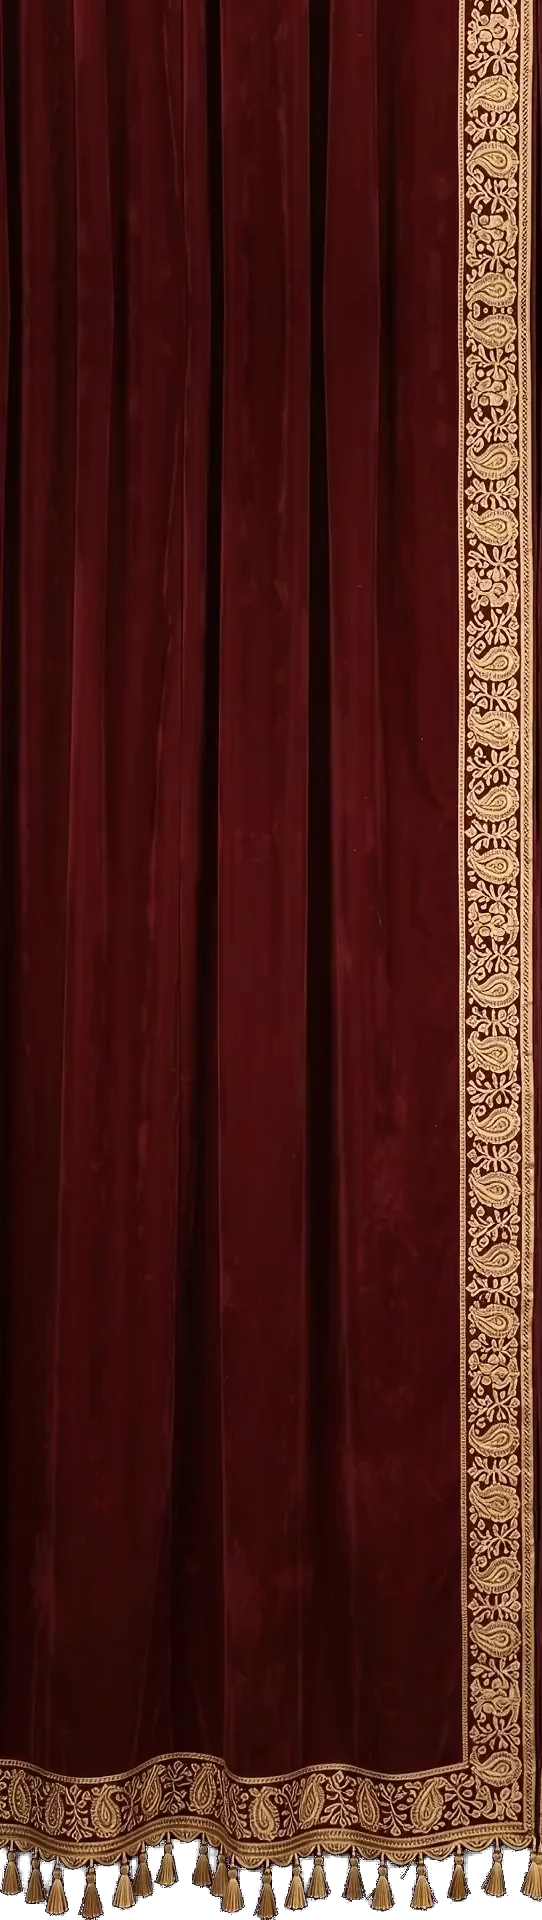
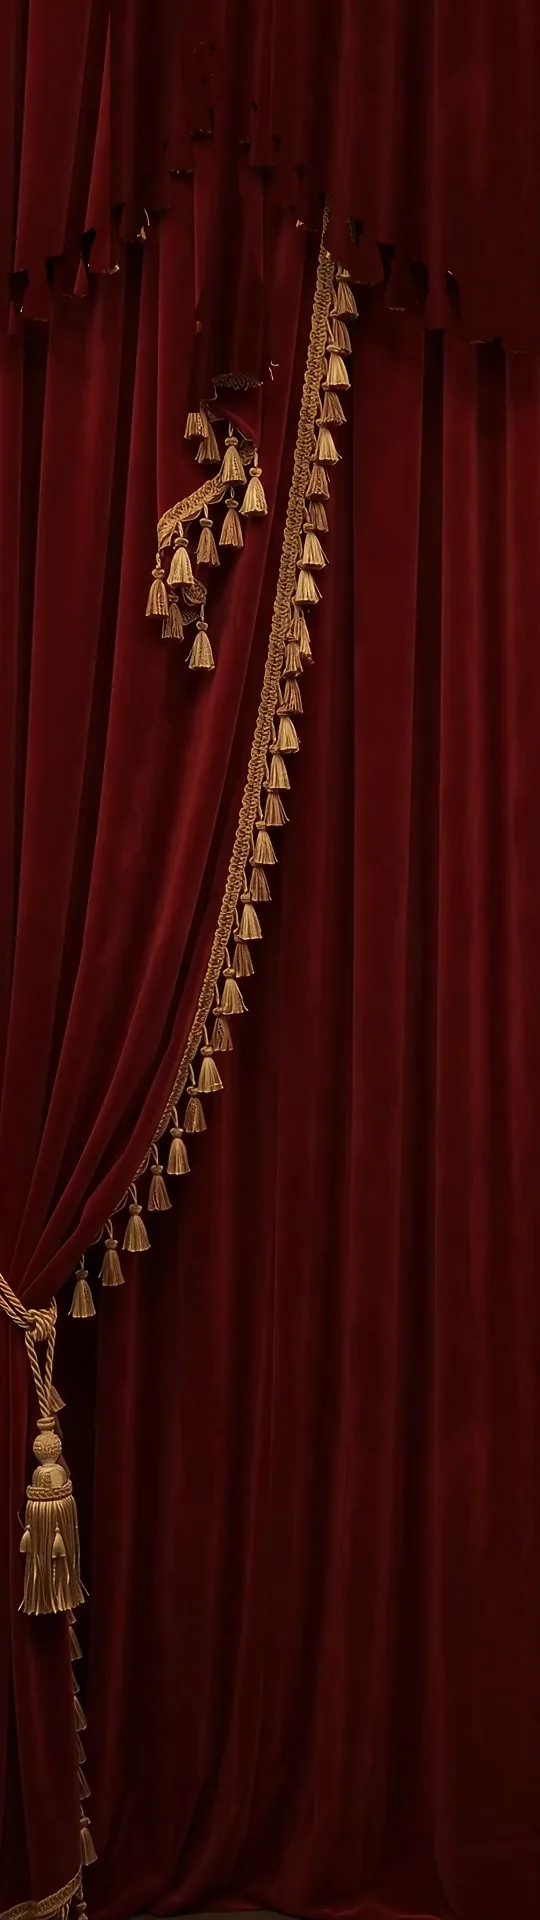
Curtain reveal: velvet panels and valance cut from the new video, one set for every card; remove the cream set

diff --git a/lib/curtainArt.ts b/lib/curtainArt.ts
@@ -1,42 +1,45 @@
 /**
- * The cloth the curtain cover is hung with: its panels and a valance, in
- * maroon velvet and in cream.
+ * The cloth the curtain cover is hung with: two panels of dark red velvet and
+ * the swagged valance over them, with their gold fringe.
  *
- * THE VELVET IS CUT FROM FILM. The cover used to play a film of velvet
- * curtains parting, and a film is opaque: the card could only be faded in
- * over its last frames, never seen between the curtains. So the film's first
- * frame, the curtains hanging closed, was cut into a left panel and a right
- * one down the seam between them, and the valance was cut from a later frame,
- * where the curtains are open and it hangs against black. The panels' tops,
- * which the valance hides in the film, are the cloth below turned over. The
- * cream set is the artwork cut by scripts/cut-flowers.mjs, as it was.
+ * CUT FROM FILM. The cover is a film of velvet curtains opening on a stage,
+ * and a film is opaque: the card could only ever be faded in over its last
+ * frames, never seen between the curtains. So the film's first frame, the
+ * curtains hanging closed, was cut into three: the valance, which is
+ * everything above its trim with its fringe and the two cords and tassels
+ * that hang from it, and what is left split down the middle into a left
+ * panel and a right. Where the valance was, each panel has plain velvet from
+ * lower down the same fold. The generator's mark in the corner is covered
+ * the same way.
  *
- * NOT TAKEN FROM THE CARD'S PALETTE, unlike every other cover. A photograph
- * of velvet cannot be mixed out of two hex colours, and a tint laid over one
- * turns gold thread to mud. So the cover answers to the card the only way a
- * photograph can: by which of the two it is. A light card is opened from
- * behind cream cloth and a dark one from behind maroon, so the screen does not
- * flash from one end of the scale to the other as the curtains part.
+ * ONE SET, FOR EVERY CARD, and not taken from the card's palette. The
+ * curtains cover the whole screen until they are tapped, so the card's colour
+ * is not on screen to match, and there is one film. The words over them are
+ * set in the cloth's inks, not the card's, and the cloth says it is dark
+ * (`tone`) so the shell seats them on a dark shadow whatever the card is.
  *
- * The cream set has one panel: its right curtain is the left one mirrored, in
- * the visual. The velvet has two, because the film's two curtains are not
- * each other's mirror, and its right one is published already turned, so the
- * visual's one mirrored markup draws it the right way round.
+ * Two panels, because the film's two curtains are not each other's mirror.
+ * The right one is published already turned, so the visual's one mirrored
+ * markup draws it the right way round.
  */
 
 import type { CoverArt } from "@/types/coverAnimation";
 
 export interface CurtainArt extends CoverArt {
-  /** The left curtain, its gold border on its right edge. */
+  /** The left curtain, its leading edge on its right. */
   panel: string;
-  /**
-   * The right curtain, for a set whose two are different cloth: published
-   * turned, border on its right edge like the left one's. Absent where the
-   * right is simply the left in a mirror.
-   */
-  panelRight?: string;
+  /** The right curtain, published turned: leading edge on its right, like the left one's. */
+  panelRight: string;
   /** The swagged valance across the top. */
   valance: string;
+  /**
+   * The valance's height as a share of the film frame's. The panels are
+   * scaled to the screen's height, and the valance has to be scaled with
+   * them or its fringe hangs short of where the film hung it.
+   */
+  valanceHeight: number;
+  /** The valance's own width over its height. */
+  valanceAspect: number;
   /** The shade where the two panels meet, and that each casts on the card as it leaves. */
   shadow: string;
 }
@@ -44,14 +47,16 @@ export interface CurtainArt extends CoverArt {
 const VELVET_LEFT = "/decor/curtain/velvet/curtain-left.webp";
 const VELVET_RIGHT = "/decor/curtain/velvet/curtain-right.webp";
 const VELVET_VALANCE = "/decor/curtain/velvet/valance.webp";
-const CREAM_PANEL = "/decor/curtain/curtain-left-cream.webp";
-const CREAM_VALANCE = "/decor/curtain/curtain-valance-cream.webp";
 
 const VELVET: CurtainArt = {
   panel: VELVET_LEFT,
   panelRight: VELVET_RIGHT,
   valance: VELVET_VALANCE,
+  /* 412 of the frame's 1920 rows, and 1080 wide. */
+  valanceHeight: 412 / 1920,
+  valanceAspect: 1080 / 412,
   images: [VELVET_LEFT, VELVET_RIGHT, VELVET_VALANCE],
+  tone: "dark",
   shadow: "rgba(0, 0, 0, 0.42)",
   ink: "#FBF4E6",
   inkMuted: "rgba(251, 244, 230, 0.86)",
@@ -60,23 +65,7 @@ const VELVET: CurtainArt = {
   plaqueInk: "#F1D38A",
 };
 
-/*
-  Gold on cream cloth is gold on gold, so the cream set's plaque is ivory and
-  its gold is taken down to an antique one that reads on it: 5.6:1.
-*/
-const CREAM: CurtainArt = {
-  panel: CREAM_PANEL,
-  valance: CREAM_VALANCE,
-  images: [CREAM_PANEL, CREAM_VALANCE],
-  shadow: "rgba(72, 48, 12, 0.3)",
-  ink: "#4A3410",
-  inkMuted: "rgba(74, 52, 16, 0.9)",
-  plaque: "rgba(255, 251, 240, 0.9)",
-  plaqueEdge: "#C2913A",
-  plaqueInk: "#80560F",
-};
-
-/** The cloth for a card whose ground is light, or dark. */
-export function curtainArt(isLight: boolean): CurtainArt {
-  return isLight ? CREAM : VELVET;
+/** The cloth, which is the same for every card. */
+export function curtainArt(): CurtainArt {
+  return VELVET;
 }

diff --git a/components/invite/covers/CurtainRevealCover.tsx b/components/invite/covers/CurtainRevealCover.tsx
@@ -54,11 +54,8 @@ const DRAW_EASE = "cubic-bezier(0.42,0,0.5,1)";
 /** How far the valance lifts as it goes, as a share of its own height. */
 const VALANCE_LIFT = "-45%";
 
-/**
- * Stops short of the hem's tassels, which hang in the bottom tenth with the
- * card showing between them: a shade drawn there would be a grey box.
- */
-const ABOVE_TASSELS = "linear-gradient(180deg, #000 0%, #000 82%, transparent 90%)";
+/** The shades run the whole height: this cloth reaches the floor, with no hem to stop short of. */
+const FULL_HEIGHT = "linear-gradient(180deg, #000, #000)";
 
 /**
  * Two curtains of velvet and zari drawn back off the invitation, under a
@@ -97,7 +94,7 @@ export default function CurtainRevealCover({
   colors,
 }: CoverVisualState): ReactElement {
   const opening = phase === "opening";
-  const art = curtainArt(colors.isLight);
+  const art = curtainArt();
 
   const rootStyle = {
     "--cover-ms": `${option.durationMs}ms`,
@@ -140,8 +137,8 @@ export default function CurtainRevealCover({
   /* The shade a panel's leading edge casts on the card behind it, once it has left the other. */
   const castStyle: CSSProperties = {
     backgroundImage: `linear-gradient(90deg, ${art.shadow}, transparent)`,
-    maskImage: ABOVE_TASSELS,
-    WebkitMaskImage: ABOVE_TASSELS,
+    maskImage: FULL_HEIGHT,
+    WebkitMaskImage: FULL_HEIGHT,
     transition: transition(stage("opacity", SHADE_SHARE, DRAW_START + 0.06, "ease-out")),
     opacity: opening ? 1 : 0,
   };
@@ -149,22 +146,31 @@ export default function CurtainRevealCover({
   /* The shade down the middle while they hang closed: one panel lying against the other. */
   const seamStyle: CSSProperties = {
     backgroundImage: `linear-gradient(90deg, transparent, ${art.shadow} 50%, transparent)`,
-    maskImage: ABOVE_TASSELS,
-    WebkitMaskImage: ABOVE_TASSELS,
+    maskImage: FULL_HEIGHT,
+    WebkitMaskImage: FULL_HEIGHT,
     transition: transition(stage("opacity", SHADE_SHARE, DRAW_START, "ease-out")),
     opacity: opening ? 0 : 1,
   };
 
-  /* The valance, last to go: still while the panels draw, then lifted off and faded. */
+  /*
+    The valance, last to go: still while the panels draw, then lifted off and
+    faded. As tall as the film hung it against panels scaled to the screen's
+    height, and never narrower than the screen: on a phone it runs off both
+    sides exactly as the panels do, and on a wide screen it spans it. Centred
+    by its own transform, which is why the lift below carries the -50%.
+  */
   const valanceStyle: CSSProperties = {
     top: "var(--lifafa-preview-h, 0px)",
+    left: "50%",
+    height: `max(${(art.valanceHeight * 100).toFixed(3)}%, ${(100 / art.valanceAspect).toFixed(3)}vw)`,
+    aspectRatio: String(art.valanceAspect),
     filter: `drop-shadow(0 3px 5px ${art.shadow})`,
     transition: transition(
       stage("opacity", FADE_SHARE, FADE_START, "ease-in"),
       stage("transform", FADE_SHARE, FADE_START, "ease-in"),
     ),
     opacity: opening ? 0 : 1,
-    transform: opening ? `translate3d(0, ${VALANCE_LIFT}, 0)` : "translate3d(0, 0, 0)",
+    transform: opening ? `translate3d(-50%, ${VALANCE_LIFT}, 0)` : "translate3d(-50%, 0, 0)",
   };
 
   return (
@@ -194,8 +200,8 @@ export default function CurtainRevealCover({
               curtain arriving a frame after the cover.
             */}
             <img
-              /* A set with a right curtain of its own has it published turned, for this mirrored half. */
-              src={side > 0 ? (art.panelRight ?? art.panel) : art.panel}
+              /* The right curtain is published turned, for this mirrored half. */
+              src={side > 0 ? art.panelRight : art.panel}
               alt=""
               decoding="sync"
               draggable={false}
@@ -212,13 +218,13 @@ export default function CurtainRevealCover({
         style={seamStyle}
       />
 
-      {/* Full width, and as tall as that makes it: the swags keep their shape on any screen. */}
+      {/* Sized by its height, in step with the panels; see valanceStyle. */}
       <img
         src={art.valance}
         alt=""
         decoding="sync"
         draggable={false}
-        className="absolute inset-x-0 block h-auto w-full max-w-none select-none"
+        className="absolute block w-auto max-w-none select-none"
         style={valanceStyle}
       />
     </div>

diff --git a/components/invite/CoverShell.tsx b/components/invite/CoverShell.tsx
@@ -914,7 +914,8 @@ export default function CoverShell({
                 phase === "closed"
                   ? `opacity ${INVITE_IN_MS}ms ease-out ${INVITE_IN_DELAY_MS}ms, transform ${INVITE_IN_MS}ms cubic-bezier(0.2,0.7,0.2,1) ${INVITE_IN_DELAY_MS}ms`
                   : `opacity ${INVITE_OUT_MS}ms ease-in-out, transform ${INVITE_OUT_MS}ms ease-in`,
-              textShadow: colors.isLight
+              /* The artwork's own tone where it has one; the card's otherwise. */
+              textShadow: (art?.tone !== undefined ? art.tone === "light" : colors.isLight)
                 ? "0 1px 2px rgba(255, 251, 240, 0.9), 0 0 14px rgba(255, 251, 240, 0.85)"
                 : "0 1px 2px rgba(0, 0, 0, 0.6), 0 0 14px rgba(0, 0, 0, 0.55)",
             }}

diff --git a/components/invite/covers/CoverVisual.tsx b/components/invite/covers/CoverVisual.tsx
@@ -56,11 +56,9 @@ export default function CoverVisual(state: CoverVisualState): ReactElement | nul
     case "curtain-reveal":
       /*
         Drawn, not filmed: the card has to show between the curtains, and
-        nothing shows through a film. Keyed by the cloth, so a host changing
-        the palette in the editor from a dark one to a light one gets the
-        other curtains hanging closed.
+        nothing shows through a film. One cloth for every card.
       */
-      return <CurtainRevealCover key={state.colors.isLight ? "cream" : "velvet"} {...state} />;
+      return <CurtainRevealCover {...state} />;
 
     case "fold-unfold":
       return (

diff --git a/types/coverAnimation.ts b/types/coverAnimation.ts
@@ -37,6 +37,14 @@ export interface CoverArt {
    * until they are in; see CoverShell.
    */
   images: readonly string[];
+  /**
+   * Whether the artwork is dark or light, for artwork that is the same on
+   * every card. The words over a cover are seated on a shadow of the opposite
+   * tone; without this the shell takes the card's own tone, which is right
+   * for artwork chosen to match the card and wrong for dark velvet over a
+   * cream one.
+   */
+  tone?: "dark" | "light";
   /** Skip and the focus ring, over the artwork. */
   ink?: string;
   inkMuted?: string;

diff --git a/lib/coverAnimations.ts b/lib/coverAnimations.ts
@@ -79,7 +79,7 @@ export const COVER_ANIMATIONS: readonly CoverAnimationOption[] = [
       opaque, and this is the one cover whose whole point is the card seen
       between the curtains as they part. See lib/curtainArt.ts.
     */
-    art: curtainArt,
+    art: () => curtainArt(),
   },
   {
     id: "fold-unfold",
